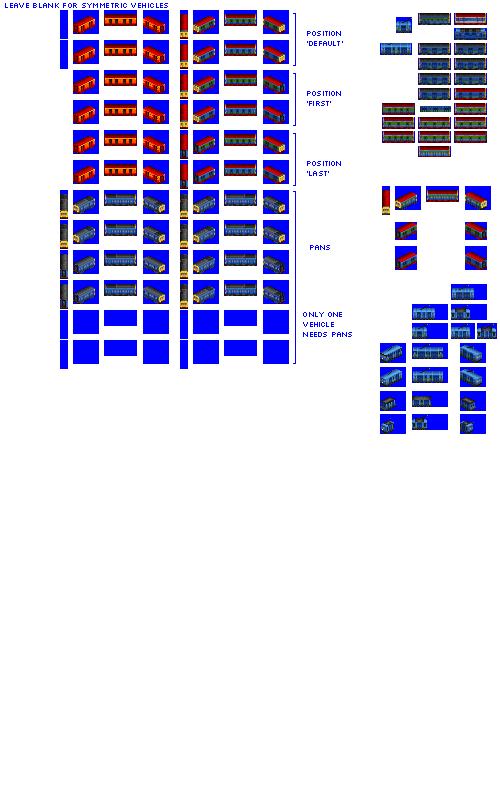
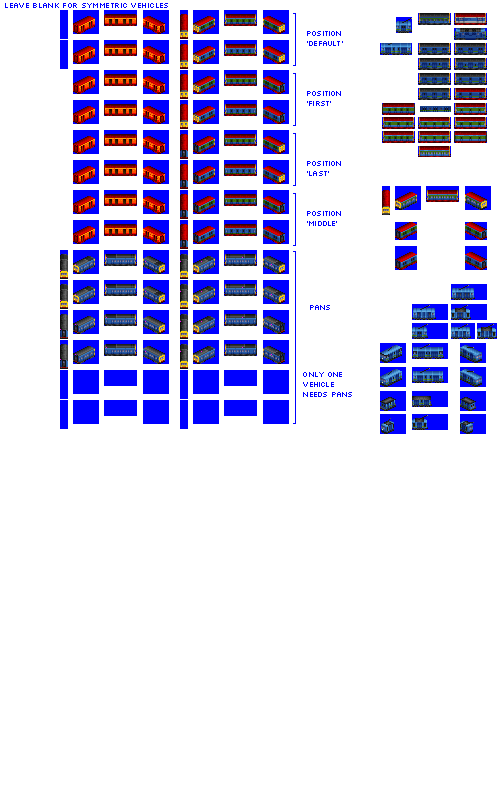
Change: use 3-unit sets for some electric mail railcars

diff --git a/src/train.py b/src/train.py
@@ -925,10 +925,16 @@ class MailEngineRailcarConsist(MailEngineConsist):
         # * unit with driving cabs both ends
         # * unit with driving cab front end
         # * unit with driving cab rear end
-        # ruleset will combine these to make multiple-units 1 or 2 vehicles long, then repeating the pattern
-        spriterow_group_mappings = {'mail': {'default': 0, 'first': 1, 'last': 2, 'special': 0}}
+        # * unit with no driving cabs (OPTIONAL - only provided for 4-unit sets)
+        # Rules are 2 unit sets of 3 unit sets (4 could also be supported, but isn't at time of writing)
+        if kwargs.get('use_3_unit_sets', False):
+            consist_ruleset = 'railcars_3_unit_sets'
+            spriterow_group_mappings = {'mail': {'default': 0, 'first': 1, 'last': 2, 'special': 3}}
+        else:
+            consist_ruleset = 'railcars_2_unit_sets'
+            spriterow_group_mappings = {'mail': {'default': 0, 'first': 1, 'last': 2, 'special': 0}}
         self.gestalt_graphics = GestaltGraphicsConsistSpecificLivery(spriterow_group_mappings,
-                                                                     consist_ruleset="railcars_2_unit_sets",
+                                                                     consist_ruleset=consist_ruleset,
                                                                      pantograph_type=self.pantograph_type)
 
 

diff --git a/src/vehicles/pylon.py b/src/vehicles/pylon.py
@@ -11,6 +11,7 @@ def main(roster_id):
                                        power_by_railtype={'RAIL': 450, 'ELRL': 820}, # bit nerfed on diesel, by design
                                        pantograph_type='z-shaped-single-with-base',
                                        easter_egg_haulage_speed_bonus=True,
+                                       use_3_unit_sets=True,
                                        gen=6,
                                        sprites_complete=True,
                                        intro_date_offset=-3)  # introduce early by design

diff --git a/src/vehicles/ares.py b/src/vehicles/ares.py
@@ -10,6 +10,7 @@ def main(roster_id):
                                        power=400,
                                        pantograph_type='diamond-single-with-base',
                                        easter_egg_haulage_speed_bonus=True,
+                                       # use_3_unit_sets=True, # Ares only 2 unit sets, varies from other Pony mail railcars
                                        gen=3,
                                        sprites_complete=True,
                                        intro_date_offset=-3)  # introduce early by design

diff --git a/src/vehicles/dover.py b/src/vehicles/dover.py
@@ -10,6 +10,7 @@ def main(roster_id):
                                        power=540,
                                        pantograph_type='z-shaped-single-with-base',
                                        easter_egg_haulage_speed_bonus=True,
+                                       use_3_unit_sets=True,
                                        gen=4,
                                        sprites_complete=True,
                                        intro_date_offset=-3)  # introduce early by design

diff --git a/src/vehicles/jupiter.py b/src/vehicles/jupiter.py
@@ -10,6 +10,7 @@ def main(roster_id):
                                        power=680,
                                        pantograph_type='z-shaped-single-with-base',
                                        easter_egg_haulage_speed_bonus=True,
+                                       use_3_unit_sets=True,
                                        gen=5,
                                        sprites_complete=True,
                                        intro_date_offset=-3)  # introduce early by design
